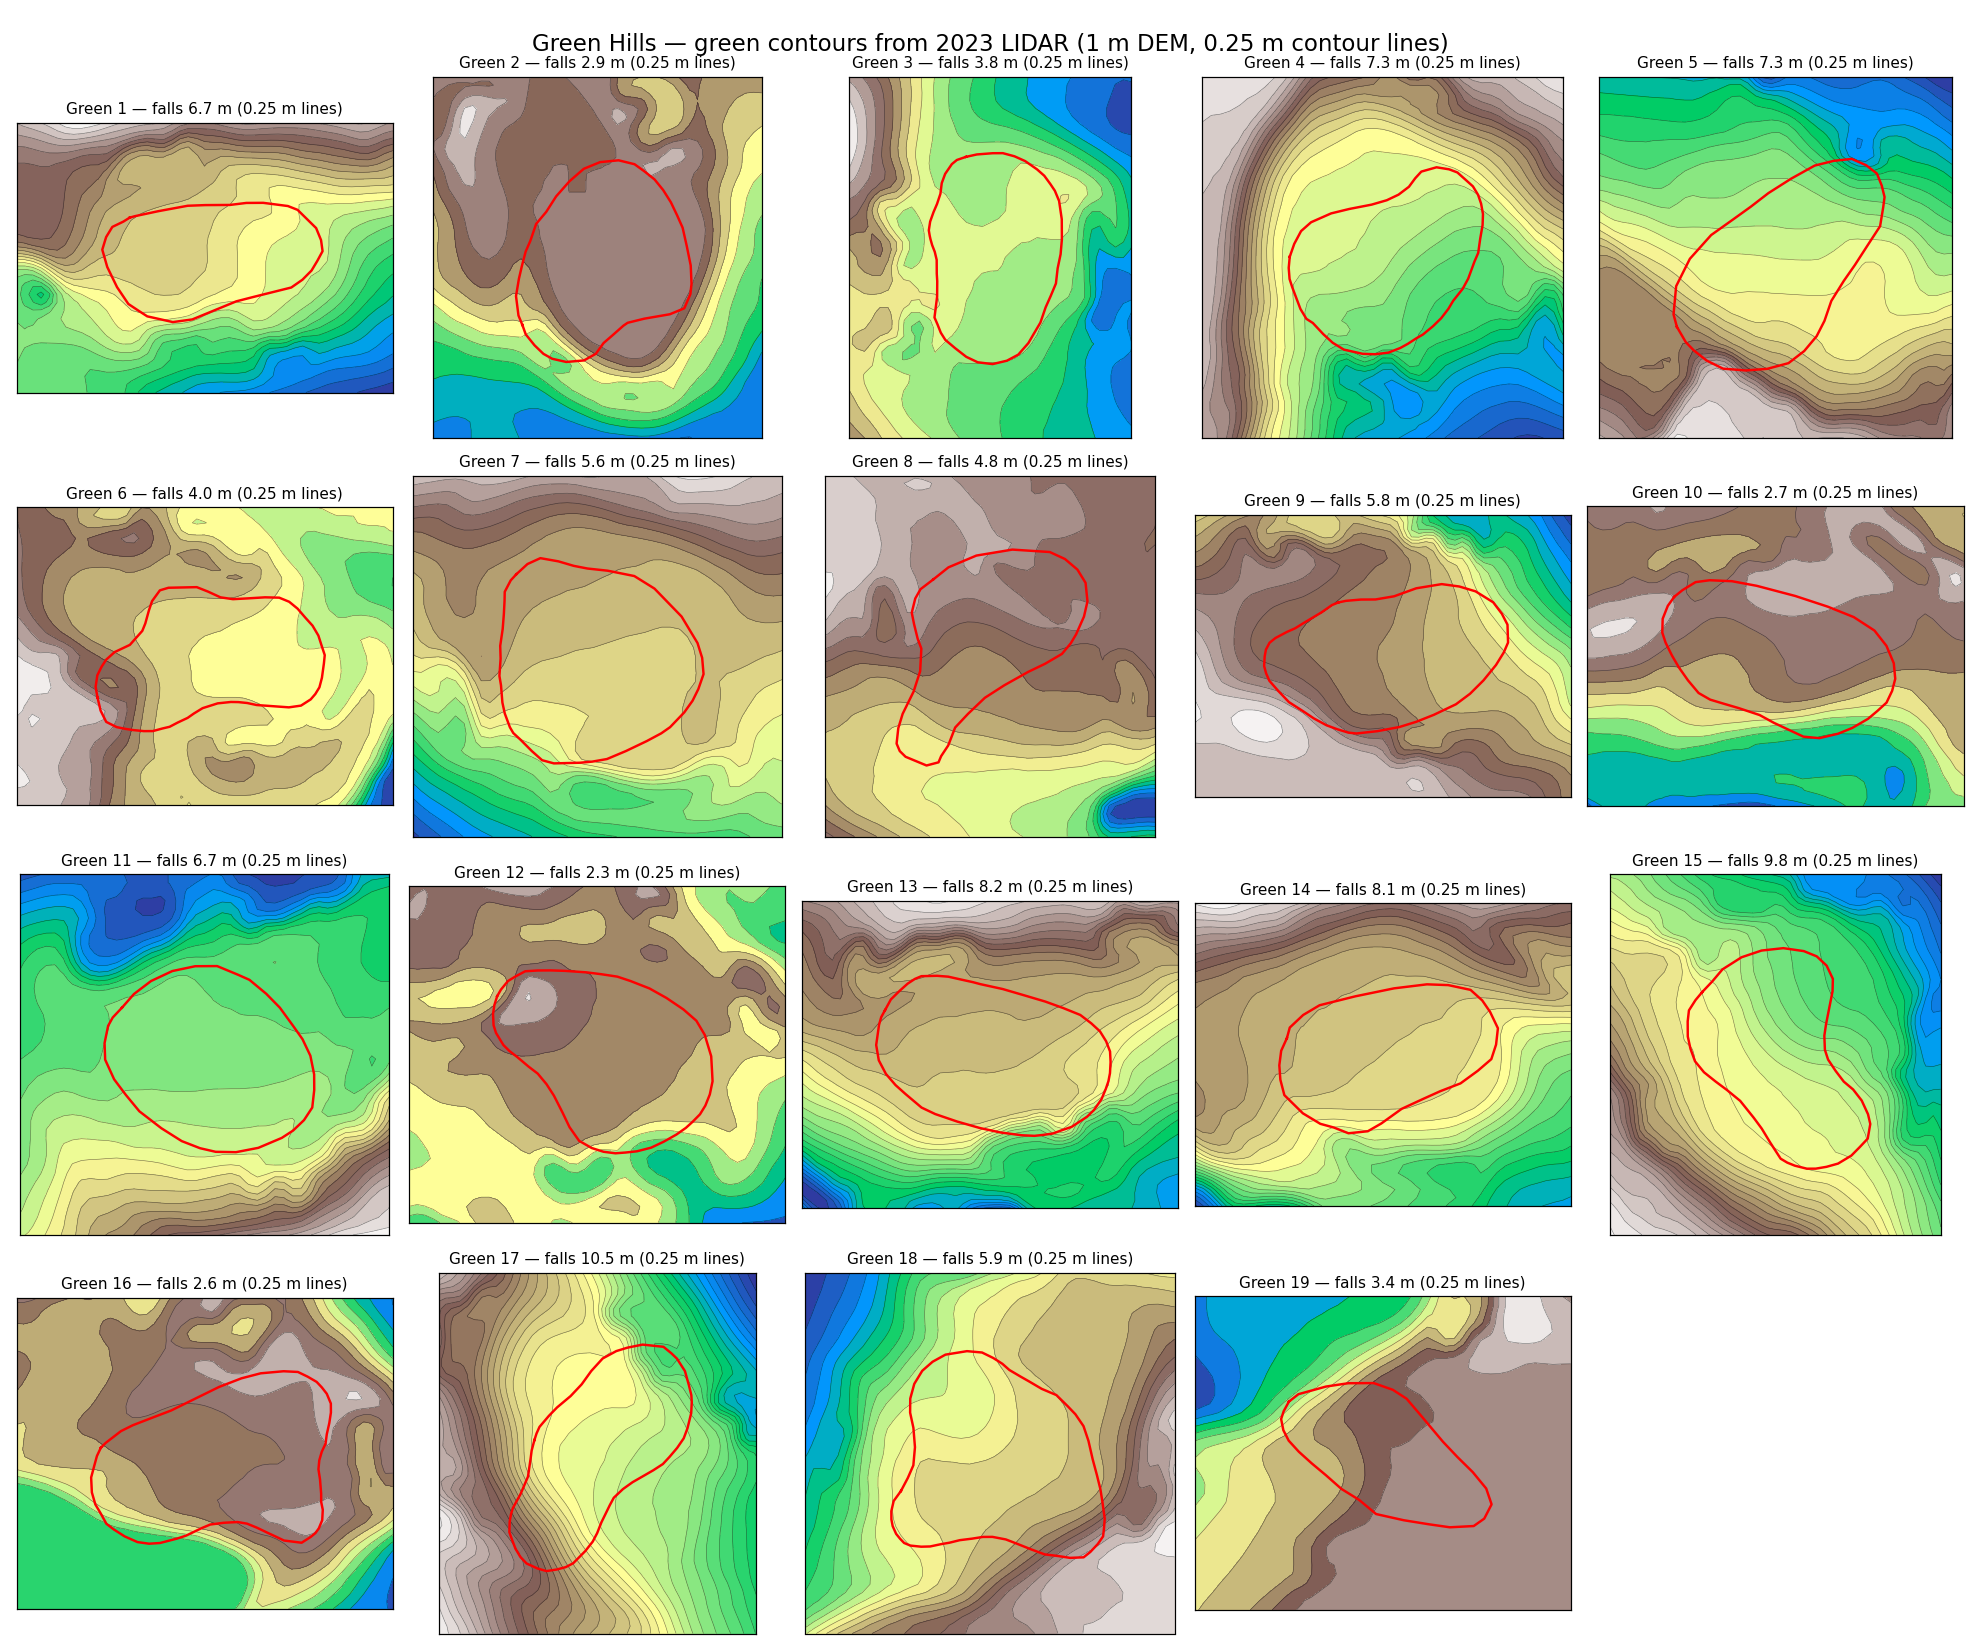
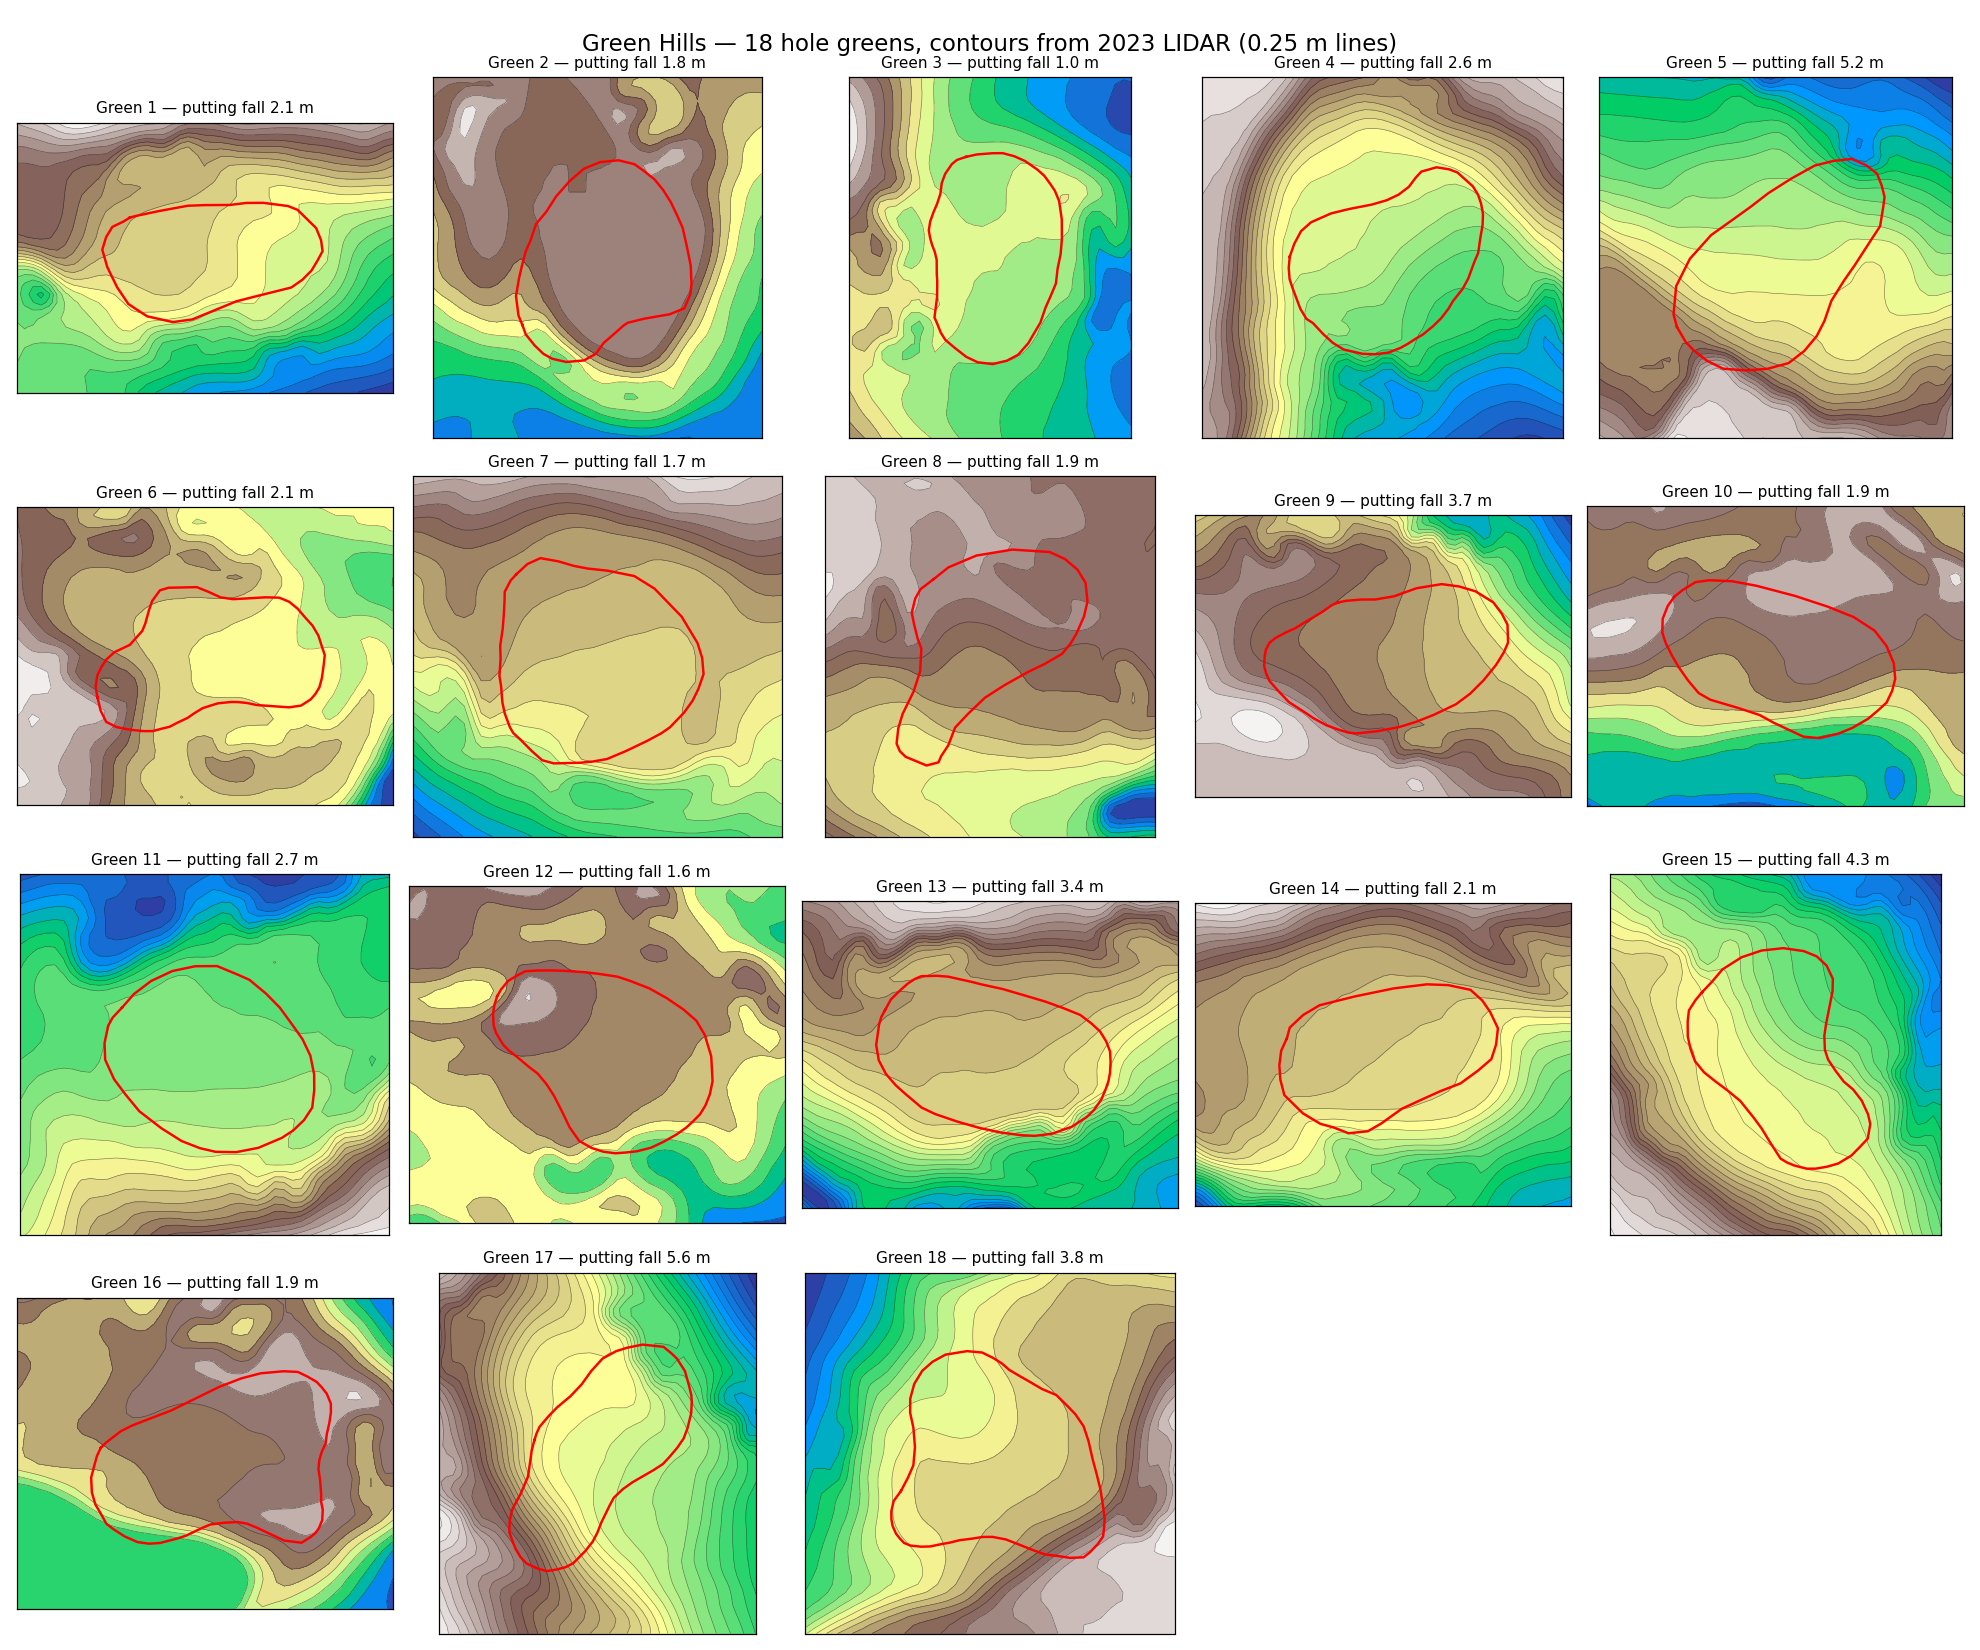
Drop the practice green — keep the 18 hole greens only
OSM tags it name="Practice Green" (26.5 m off any hole). Filter it out
across splines, course_data, high-res greens, master map, and crops, so
the course has exactly 18 greens.

https://claude.ai/code/session_015KpCNaLMgitkL9wS88bLC4

diff --git a/scripts/hole_crops.py b/scripts/hole_crops.py
@@ -48,7 +48,8 @@ def main():
         return ((x - xmin) / box * px, (ymax - y) / box * px)
 
     trees = json.loads((cfg.derived_dir / "trees.json").read_text())["trees"]
-    features = [f for f in osm.parse(osm.fetch(cfg)) if f["category"] not in _REPLACED]
+    features = [f for f in osm.drop_practice_greens(osm.parse(osm.fetch(cfg)))
+                if f["category"] not in _REPLACED]
     features += fairways.load_generated(cfg) + tees.load(cfg) + water.load(cfg)
     holes = {int(f["tags"]["ref"]): f for f in features
              if f["category"] == "hole" and f["tags"].get("ref", "").isdigit()}

diff --git a/scripts/build_splines.py b/scripts/build_splines.py
@@ -27,7 +27,7 @@ def main():
     print(f"== {cfg.name}: splines ==")
 
     # use aerial-detected fairways + assembled water + championship tees
-    features = [f for f in osm.parse(osm.fetch(cfg, force=args.force))
+    features = [f for f in osm.drop_practice_greens(osm.parse(osm.fetch(cfg, force=args.force)))
                 if f["category"] not in _REPLACED]
     features += (fairways.load_generated(cfg) + tees.load(cfg) + water.load(cfg))
     svg_path = cfg.derived_dir / "splines.svg"

diff --git a/gspro_course/osm.py b/gspro_course/osm.py
@@ -118,3 +118,11 @@ def to_geojson(features) -> dict:
 def counts(features):
     from collections import Counter
     return dict(Counter(f["category"] for f in features))
+
+
+def drop_practice_greens(features):
+    """Remove practice/chipping greens (tagged name ~ 'practice') — keep the 18
+    hole greens only."""
+    return [f for f in features
+            if not (f["category"] == "green"
+                    and "practice" in f["tags"].get("name", "").lower())]

diff --git a/scripts/master_map.py b/scripts/master_map.py
@@ -47,7 +47,8 @@ def main():
         x, y = proj.xy(lon, lat)
         return ((x - xmin) / box * px, (ymax - y) / box * px)
 
-    features = [f for f in osm.parse(osm.fetch(cfg)) if f["category"] not in _REPLACED]
+    features = [f for f in osm.drop_practice_greens(osm.parse(osm.fetch(cfg)))
+                if f["category"] not in _REPLACED]
     features += fairways.load_generated(cfg) + water.load(cfg)
     black = tees.load(cfg)
 

diff --git a/scripts/build_greens.py b/scripts/build_greens.py
@@ -101,7 +101,7 @@ def main():
     cfg = config.load(sys.argv[1] if len(sys.argv) > 1 else "green-hills")
     cfg.ensure_dirs()
     print(f"== {cfg.name}: high-res greens ==")
-    features = osm.parse(osm.fetch(cfg))
+    features = osm.drop_practice_greens(osm.parse(osm.fetch(cfg)))
     results = greens.highres(cfg, features)
     meta = _save(cfg, results)
     dens = [m["density_ppm2"] for m in meta]

diff --git a/scripts/build_coursedata.py b/scripts/build_coursedata.py
@@ -23,7 +23,7 @@ def main():
     cfg.ensure_dirs()
     d = cfg.derived_dir
     proj = Projector(cfg.epsg)
-    features = osm.parse(osm.fetch(cfg))
+    features = osm.drop_practice_greens(osm.parse(osm.fetch(cfg)))
 
     greens = [f for f in features if f["category"] == "green"]
     holes_geom = {int(f["tags"]["ref"]): f for f in features
